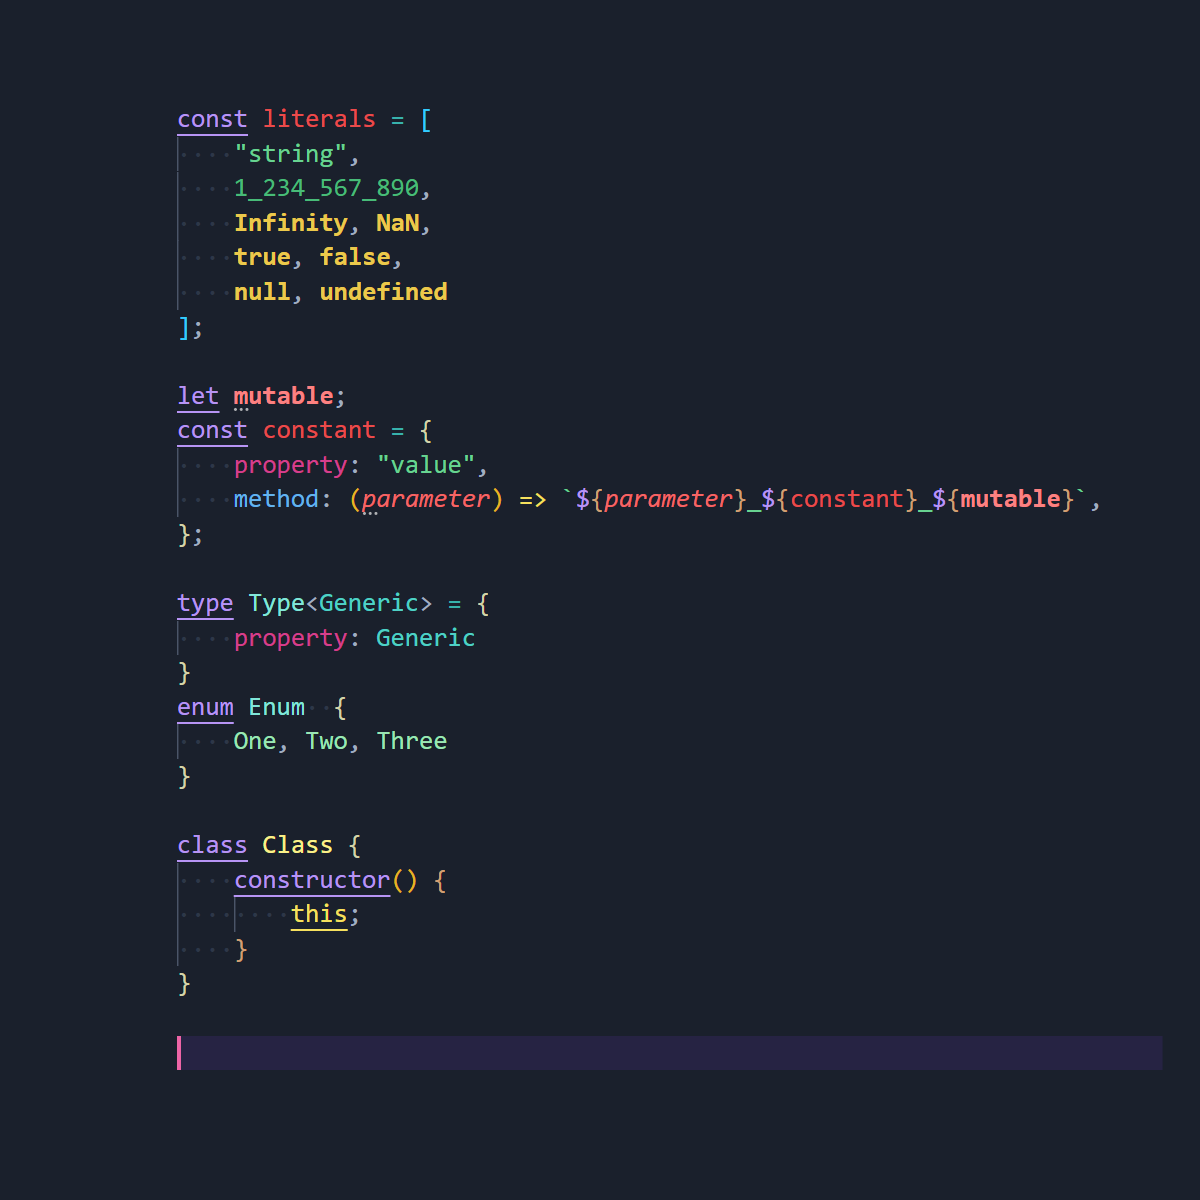
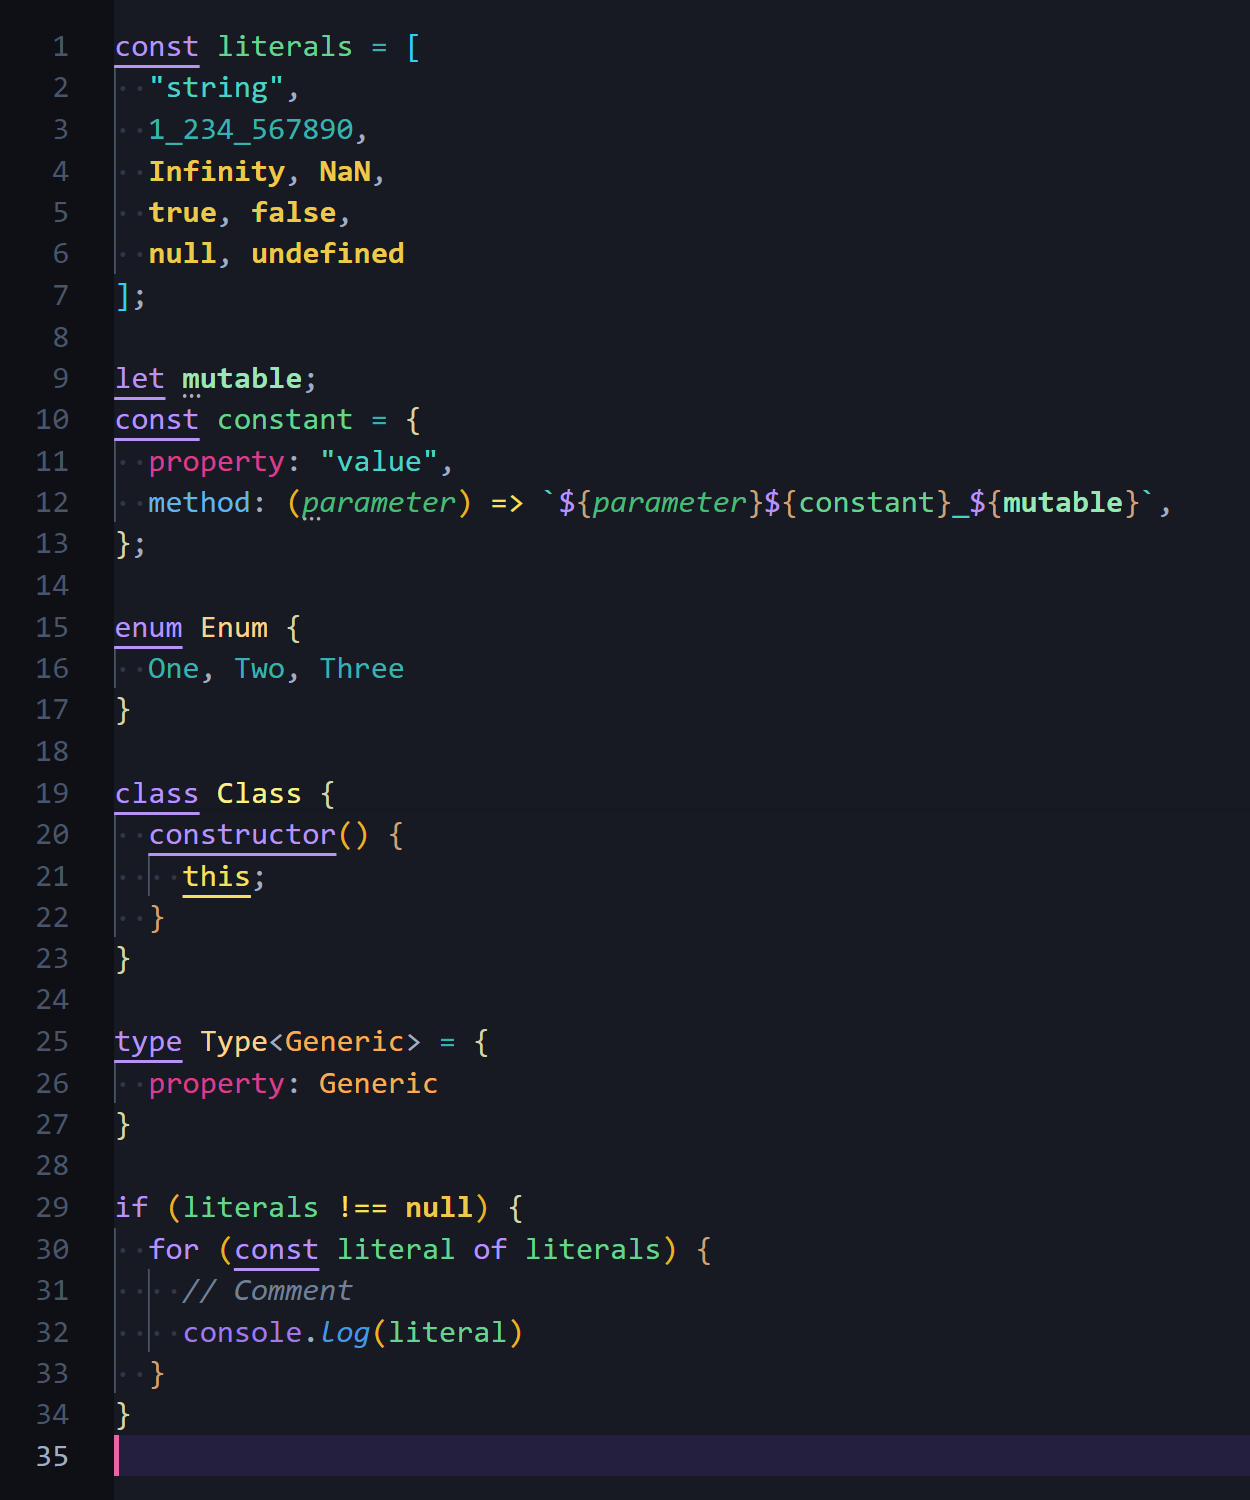
Contrast overhaul

diff --git a/scripts/components/token-colors.js b/scripts/components/token-colors.js
@@ -19,7 +19,7 @@ module.exports = formatTokenColors([
   {
     name: "support.variable.magic.python",
     scope: "support.variable.magic.python",
-    settings: palette.red[400],
+    settings: palette.variable.main,
   },
   {
     name: "punctuation.separator.parameters.python",
@@ -55,7 +55,7 @@ module.exports = formatTokenColors([
   {
     name: "variable.language.rust",
     scope: "variable.language.rust",
-    settings: palette.red[400],
+    settings: palette.variable.main,
   },
   {
     name: "support.constant.edge",
@@ -143,7 +143,7 @@ module.exports = formatTokenColors([
     name: "js/ts variable.other.constant",
     scope: "variable.other.constant",
     settings: {
-      foreground: palette.red[450],
+      foreground: palette.variable.main,
       fontStyle: "",
     },
   },
@@ -182,7 +182,7 @@ module.exports = formatTokenColors([
   {
     name: "java variable.name",
     scope: "meta.definition.variable.name.java",
-    settings: palette.red[400],
+    settings: palette.variable.main,
   },
   {
     name: "operator channel",
@@ -254,7 +254,7 @@ module.exports = formatTokenColors([
       "support.variable.object.node",
     ],
     settings: {
-      foreground: palette.red[300],
+      foreground: palette.variable.light,
       fontStyle: "bold",
     },
   },
@@ -427,7 +427,7 @@ module.exports = formatTokenColors([
   {
     name: "Variables",
     scope: "variable",
-    settings: palette.red[400],
+    settings: palette.variable.main,
   },
   {
     name: "Variables",
@@ -477,7 +477,7 @@ module.exports = formatTokenColors([
   {
     name: "Type Parameter",
     scope: "entity.name.type.parameter",
-    settings: palette.teal[300],
+    settings: palette.orange[300],
   },
 
   {
@@ -502,12 +502,12 @@ module.exports = formatTokenColors([
   {
     name: "Class name php",
     scope: "variable.other.class.php",
-    settings: palette.red[400],
+    settings: palette.variable.main,
   },
   {
     name: "Type Name",
     scope: "entity.name.type",
-    settings: palette.teal[200],
+    settings: palette.orange[200],
   },
   {
     name: "Keyword Control",
@@ -565,7 +565,10 @@ module.exports = formatTokenColors([
   {
     name: "Support",
     scope: "support.function",
-    settings: palette.teal[400],
+    settings: {
+      foreground: palette.blue[400],
+      fontStyle: "italics",
+    },
   },
   {
     name: "Support type",
@@ -590,7 +593,7 @@ module.exports = formatTokenColors([
   {
     name: "Strings",
     scope: "string",
-    settings: palette.green[300],
+    settings: palette.literals.main,
   },
   {
     name: "Constant other symbol",
@@ -600,7 +603,7 @@ module.exports = formatTokenColors([
   {
     name: "Integers",
     scope: "constant.numeric",
-    settings: palette.green[400],
+    settings: palette.literals.dark,
   },
   {
     name: "Big Integers",
@@ -633,7 +636,7 @@ module.exports = formatTokenColors([
   {
     name: "Tags",
     scope: "entity.name.tag",
-    settings: palette.red[400],
+    settings: palette.variable.main,
   },
   {
     name: "Attributes",
@@ -1023,7 +1026,7 @@ module.exports = formatTokenColors([
     name: "ts primitive/builtin types",
     scope:
       "support.type.primitive.ts,support.type.builtin.ts,support.type.primitive.tsx,support.type.builtin.tsx",
-    settings: palette.teal[400],
+    settings: palette.orange[300],
   },
   {
     name: "block scope",
@@ -1038,7 +1041,7 @@ module.exports = formatTokenColors([
   {
     name: "cs local variable",
     scope: "entity.name.variable.local.cs",
-    settings: palette.red[400],
+    settings: palette.variable.main,
   },
   {
     scope: "token.info-token",
@@ -1093,32 +1096,32 @@ module.exports = formatTokenColors([
   {
     name: "js func parameter",
     scope: ["variable.parameter.function.js"],
-    settings: palette.red[400],
+    settings: palette.variable.main,
   },
   {
     name: "js template literals begin",
     scope: ["keyword.other.template.begin"],
-    settings: palette.green[300],
+    settings: palette.literals.main,
   },
   {
     name: "js template literals end",
     scope: ["keyword.other.template.end"],
-    settings: palette.green[300],
+    settings: palette.literals.main,
   },
   {
     name: "js template literals variable braces begin",
     scope: ["keyword.other.substitution.begin"],
-    settings: palette.green[300],
+    settings: palette.literals.main,
   },
   {
     name: "js template literals variable braces end",
     scope: ["keyword.other.substitution.end"],
-    settings: palette.green[300],
+    settings: palette.literals.main,
   },
   {
-    name: "js operator.assignment",
-    scope: [],
-    settings: palette.teal[400],
+    name: "JSON strings",
+    scope: "string.quoted.double.json",
+    settings: palette.green[300],
   },
   {
     name: "go operator",
@@ -1153,7 +1156,7 @@ module.exports = formatTokenColors([
   {
     name: "html/pug (jade) escaped characters and entities",
     scope: ["constant.character.entity"],
-    settings: palette.red[400],
+    settings: palette.variable.main,
   },
   {
     name: "styling css pseudo-elements/classes to be able to differentiate from classes which are the same colour",
@@ -1211,7 +1214,7 @@ module.exports = formatTokenColors([
   {
     name: "Groovy Variables",
     scope: ["meta.definition.variable.name.groovy"],
-    settings: palette.red[400],
+    settings: palette.variable.main,
   },
   {
     name: "Groovy Inheritance",
@@ -1257,7 +1260,7 @@ module.exports = formatTokenColors([
   {
     name: "SQL Variables",
     scope: ["text.variable", "text.bracketed"],
-    settings: palette.red[400],
+    settings: palette.variable.main,
   },
   {
     name: "SQL Star",
@@ -1336,7 +1339,7 @@ module.exports = formatTokenColors([
   {
     name: "string",
     scope: ["beginning.punctuation.definition.quote.markdown.xi"],
-    settings: palette.green[300],
+    settings: palette.literals.main,
   },
   {
     name: "comments",
@@ -1475,7 +1478,7 @@ module.exports = formatTokenColors([
   {
     name: "c variable readwrite",
     scope: "variable.other.readwrite.c",
-    settings: palette.red[400],
+    settings: palette.variable.main,
   },
   {
     name: "php scope",
@@ -1527,7 +1530,7 @@ module.exports = formatTokenColors([
     name: "Param",
     scope: "variable.parameter",
     settings: {
-      foreground: palette.red[400],
+      foreground: palette.variable.dark,
       fontStyle: "italic",
     },
   },

diff --git a/scripts/components/colors.js b/scripts/components/colors.js
@@ -1,6 +1,6 @@
 const palette = require("../palette");
 module.exports = {
-  "activityBar.background": palette.gray[800],
+  "activityBar.background": palette.gray[1000],
   "activityBar.foreground": palette.gray[200],
   "activityBarBadge.background": palette.blue[600],
   "activityBarBadge.foreground": palette.blue[50],
@@ -9,13 +9,13 @@ module.exports = {
   "button.secondaryBackground": palette.gray[700],
   "button.secondaryForeground": palette.gray[100],
   "checkbox.border": palette.gray[600],
-  "debugToolBar.background": palette.gray[900],
+  "debugToolBar.background": palette.gray[1000],
   descriptionForeground: palette.gray[400],
   "diffEditor.insertedTextBackground": palette.alpha(palette.green[700], "30"),
   "diffEditor.diagonalFill": palette.gray[700],
-  "dropdown.background": palette.gray[900],
-  "dropdown.border": palette.gray[900],
-  "editor.background": palette.gray[800],
+  "dropdown.background": palette.gray[1000],
+  "dropdown.border": palette.gray[1000],
+  "editor.background": palette.gray[900],
   "editor.findMatchBackground": palette.alpha(palette.cyan[500], "50"),
   "editor.findMatchBorder": palette.cyan[500],
   "editor.findMatchHighlightBackground": palette.alpha(palette.cyan[500], "50"),
@@ -28,6 +28,7 @@ module.exports = {
   "editorGutter.addedBackground": palette.green[500],
   "editorGutter.deletedBackground": palette.red[700],
   "editorGutter.modifiedBackground": palette.blue[400],
+  "editorGutter.background": palette.gray[1000],
   "editorOverviewRuler.addedBackground": palette.green[500],
   "editorOverviewRuler.deletedBackground": palette.red[700],
   "editorOverviewRuler.modifiedBackground": palette.blue[400],
@@ -48,7 +49,7 @@ module.exports = {
   "editorError.background": palette.alpha(palette.red[800], "80"),
   "editorGroup.background": palette.gray[900],
   "editorGroup.border": palette.gray[900],
-  "editorGroupHeader.tabsBackground": palette.gray[900],
+  "editorGroupHeader.tabsBackground": palette.gray[1000],
   "editorHoverWidget.background": palette.gray[900],
   "editorHoverWidget.border": palette.gray[900],
   "editorIndentGuide.activeBackground": palette.purple[600],
@@ -89,18 +90,18 @@ module.exports = {
     palette.cyan[900],
     "40"
   ),
-  "peekViewResult.background": palette.gray[900],
-  "scrollbar.shadow": palette.gray[900],
+  "peekViewResult.background": palette.gray[1000],
+  "scrollbar.shadow": palette.gray[1000],
   "scrollbarSlider.activeBackground": palette.alpha(palette.gray[500], "80"),
   "scrollbarSlider.background": palette.alpha(palette.gray[500], "40"),
   "scrollbarSlider.hoverBackground": palette.alpha(palette.gray[500], "60"),
   "settings.focusedRowBackground": palette.gray[800],
   "settings.headerForeground": palette.white,
-  "sideBar.background": palette.gray[900],
+  "sideBar.background": palette.gray[1000],
   "sideBar.foreground": palette.gray[400],
   "sideBarSectionHeader.background": palette.gray[800],
   "sideBarSectionHeader.foreground": palette.gray[400],
-  "statusBar.background": palette.gray[900],
+  "statusBar.background": palette.gray[1000],
   "statusBar.debuggingBackground": palette.orange[500],
   "statusBar.debuggingBorder": palette.orange[500],
   "statusBar.debuggingForeground": palette.white,
@@ -109,11 +110,11 @@ module.exports = {
   "statusBarItem.hoverBackground": palette.gray[700],
   "statusBarItem.remoteBackground": palette.blue[600],
   "statusBarItem.remoteForeground": palette.blue[50],
-  "tab.activeBackground": palette.gray[800],
+  "tab.activeBackground": palette.gray[900],
   "tab.activeForeground": palette.gray[200],
-  "tab.border": palette.gray[900],
+  "tab.border": palette.gray[1000],
   "tab.hoverBackground": palette.gray[700],
-  "tab.inactiveBackground": palette.gray[900],
+  "tab.inactiveBackground": palette.gray[1000],
   "tab.unfocusedHoverBackground": palette.gray[700],
   "terminal.ansiBlack": palette.black,
   "terminal.ansiBlue": palette.blue[400],
@@ -136,9 +137,10 @@ module.exports = {
   "terminal.foreground": palette.gray[400],
   "terminal.selectionBackground": palette.alpha(palette.purple[500], "50"),
   "textLink.foreground": palette.blue[300],
-  "titleBar.activeBackground": palette.gray[800],
+  "titleBar.activeBackground": palette.gray[900],
   "titleBar.activeForeground": palette.gray[200],
   "titleBar.inactiveBackground": palette.gray[900],
   "titleBar.inactiveForeground": palette.gray[500],
   "welcomePage.buttonHoverBackground": palette.gray[600],
+  "quickInput.background": palette.gray[1000],
 };

diff --git a/scripts/palette.js b/scripts/palette.js
@@ -1,7 +1,5 @@
-module.exports = {
+const baseColors = {
   transparent: "#00000000",
-  current: "currentColor",
-  alpha: (color, alpha) => `${color}${alpha}`,
   black: "#000000",
   white: "#FFFFFF",
 
@@ -16,6 +14,7 @@ module.exports = {
     700: "#2D3748",
     800: "#1A202C",
     900: "#171923",
+    1000: "#0F1016",
   },
 
   red: {
@@ -135,4 +134,23 @@ module.exports = {
     800: "#702459",
     900: "#521B41",
   },
+};
+
+const namedColors = {
+  variable: {
+    main: baseColors.green[300],
+    dark: baseColors.green[400],
+    light: baseColors.green[200],
+  },
+  literals: {
+    main: baseColors.teal[300],
+    dark: baseColors.teal[400],
+  },
+};
+
+module.exports = {
+  ...baseColors,
+  ...namedColors,
+  current: "currentColor",
+  alpha: (color, alpha) => `${color}${alpha}`,
 };

diff --git a/scripts/components/semantic-token-colors.js b/scripts/components/semantic-token-colors.js
@@ -1,7 +1,7 @@
 const palette = require("../palette");
 module.exports = {
   enumMember: {
-    foreground: palette.green[200],
+    foreground: palette.teal[400],
   },
   "method.defaultLibrary": {
     foreground: palette.blue[400],

diff --git a/CHANGELOG.md b/CHANGELOG.md
@@ -1,5 +1,13 @@
 # Change Log
 
+## [0.0.7]
+
+- Major changes to increase contrast and reduce usage of reds
+- Darkened background color
+- Variables now use green variants instead of reds
+- Literals now use teal variants instead of greeens
+- Types now use orange variants instead of teals
+
 ## [0.0.6]
 
 - Altered class member styles
